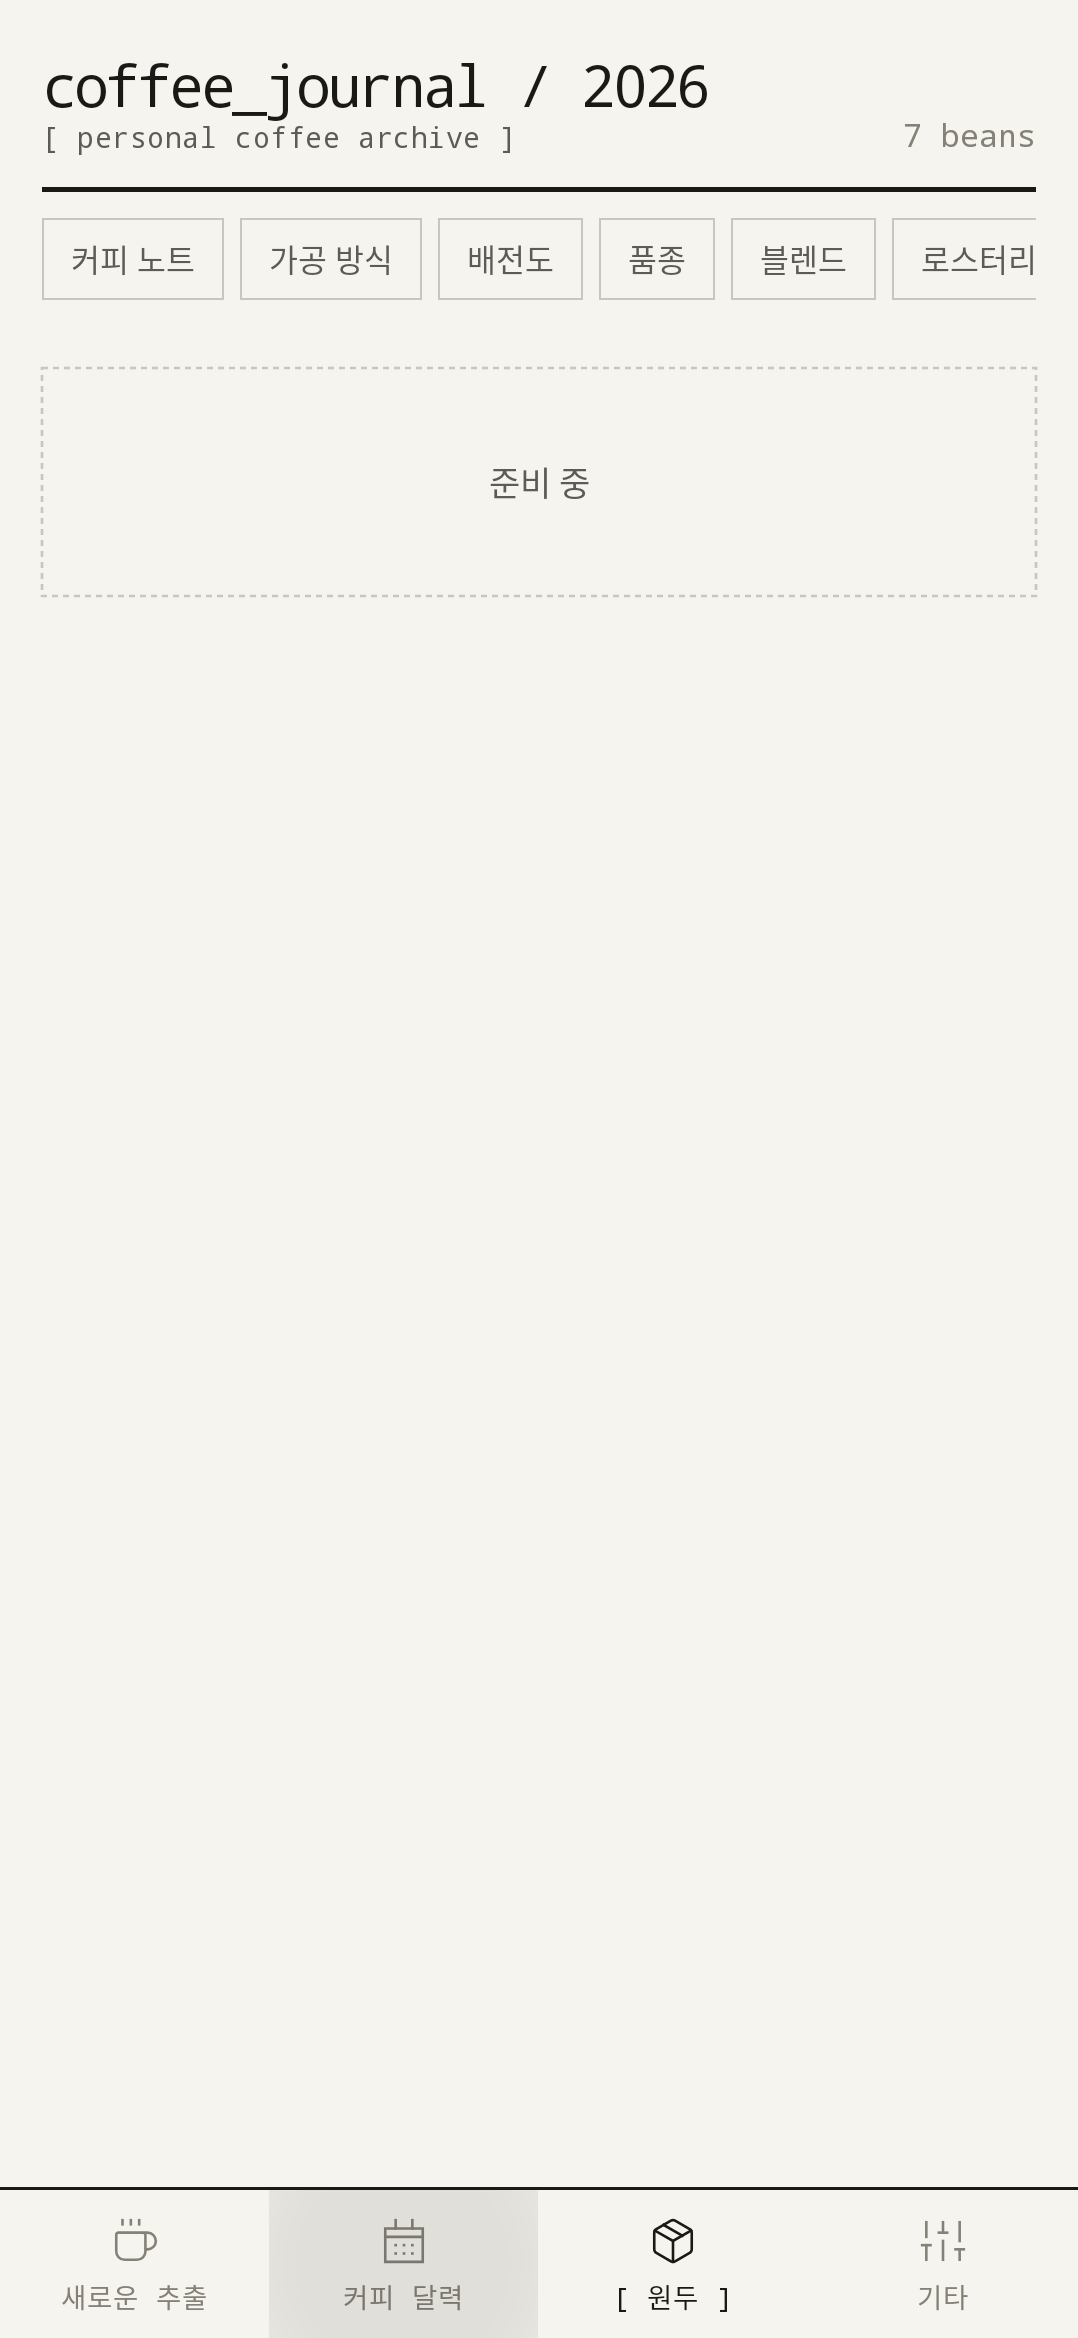
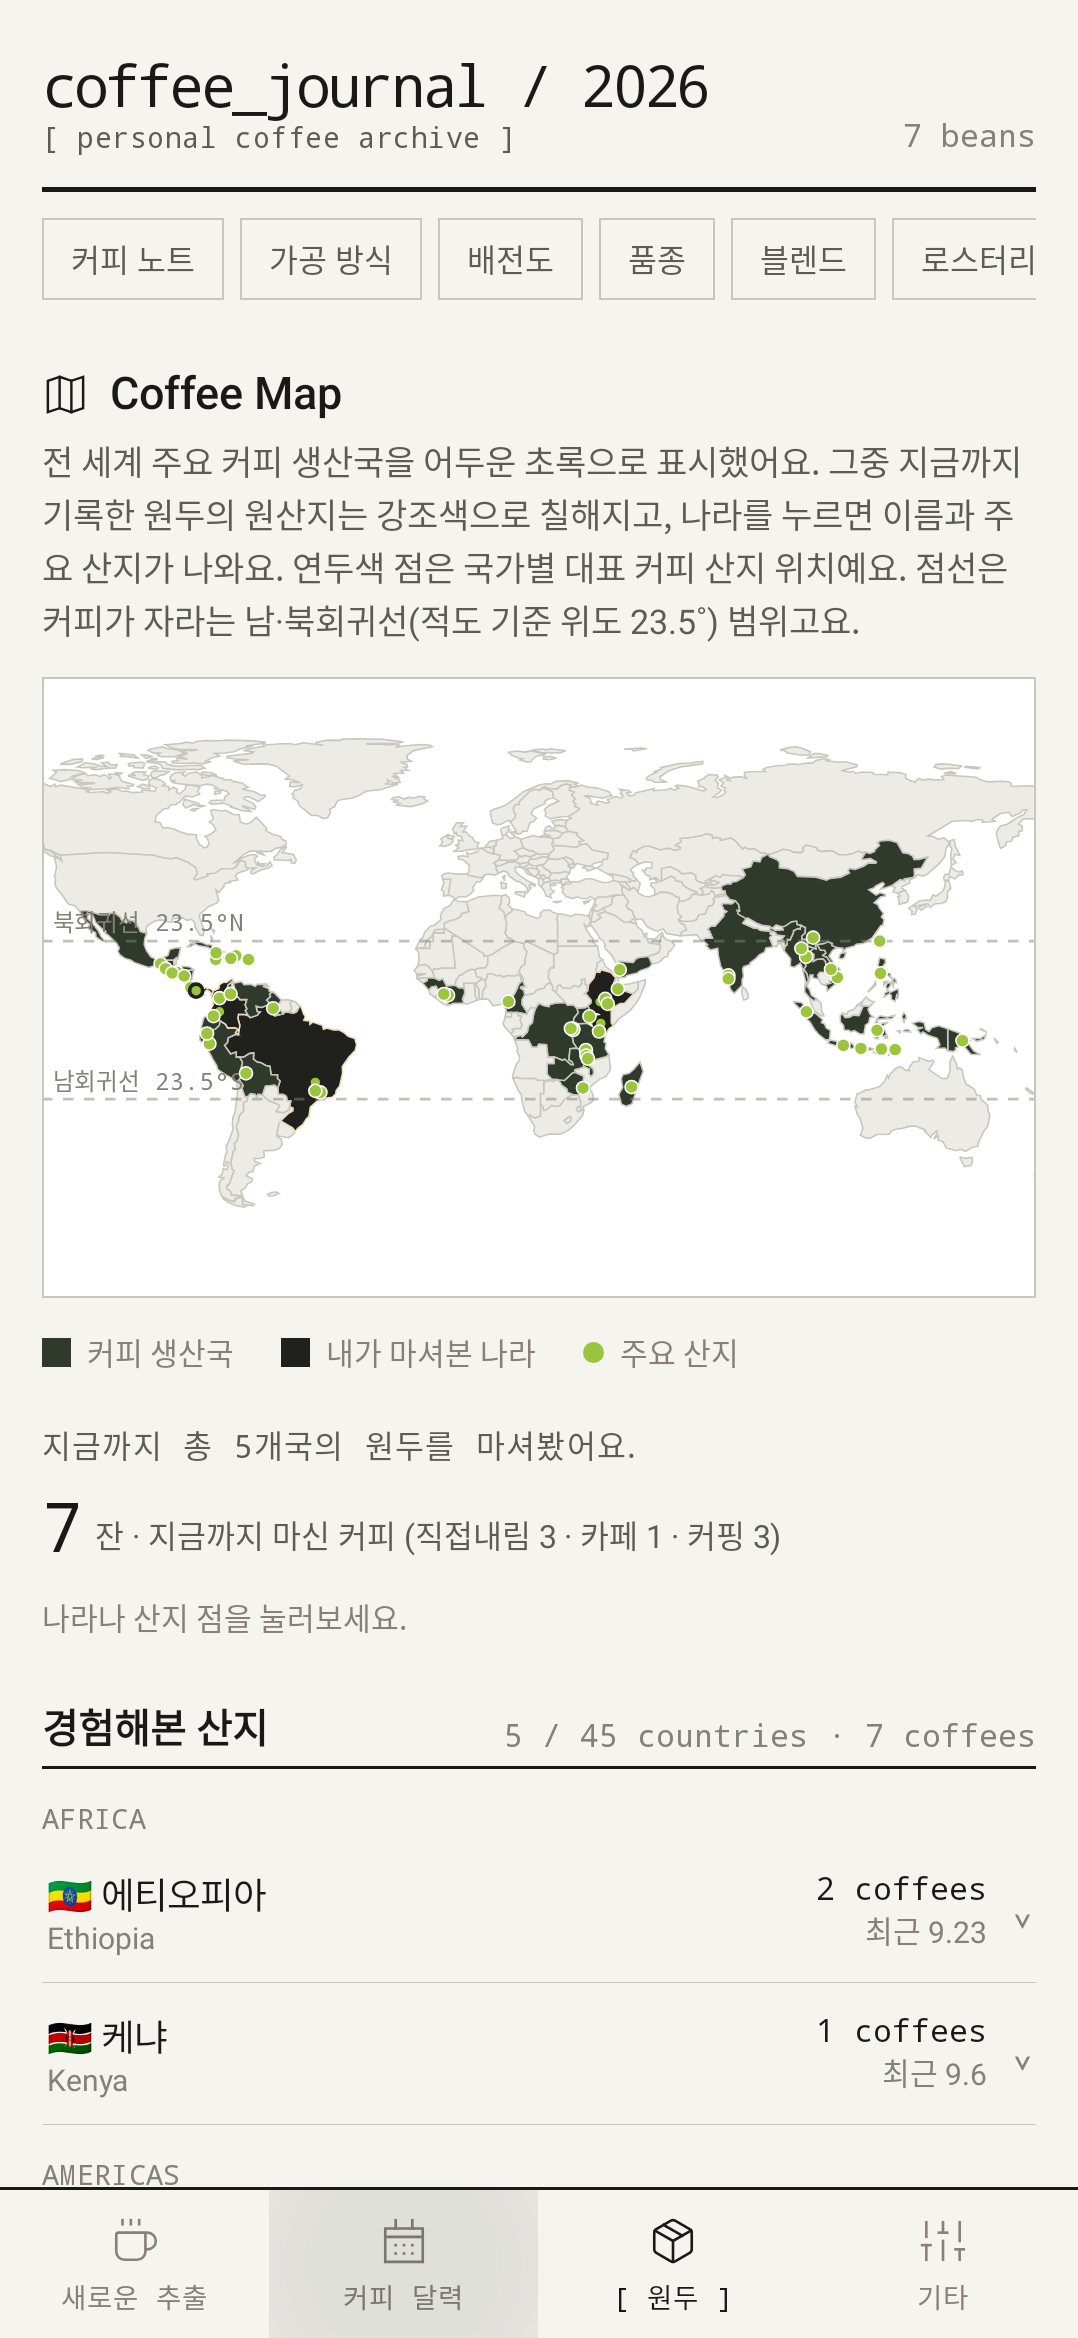
Merge bean tab B (coffee map, roasteries, importers, blends) and add per-route screenshot tests
All six feature branches are now merged: 80 shared unit tests and 29 JVM
screenshot tests pass; every route renders against seeded sample data.

Claude-Session: https://claude.ai/code/session_018QYnCDu2vDaVkATiKmJbxB

diff --git a/androidApp/src/test/kotlin/com/coffeejournal/android/RouteScreenshotTest.kt b/androidApp/src/test/kotlin/com/coffeejournal/android/RouteScreenshotTest.kt
@@ -1,0 +1,78 @@
+package com.coffeejournal.android
+
+import androidx.compose.ui.test.junit4.createComposeRule
+import androidx.compose.ui.test.onNodeWithText
+import androidx.compose.ui.test.onRoot
+import androidx.compose.ui.test.performClick
+import androidx.navigation.compose.NavHost
+import androidx.navigation.compose.rememberNavController
+import androidx.test.core.app.ApplicationProvider
+import androidx.test.ext.junit.runners.AndroidJUnit4
+import com.coffeejournal.ui.nav.FormMode
+import com.coffeejournal.ui.nav.Route
+import com.coffeejournal.ui.nav.appGraph
+import com.coffeejournal.ui.theme.CoffeeJournalTheme
+import com.github.takahirom.roborazzi.captureRoboImage
+import org.junit.Before
+import org.junit.Rule
+import org.junit.Test
+import org.junit.runner.RunWith
+import org.robolectric.annotation.Config
+import org.robolectric.annotation.GraphicsMode
+
+/** Renders individual routes on the JVM against seeded data; doubles as a crash check for every screen. */
+@RunWith(AndroidJUnit4::class)
+@GraphicsMode(GraphicsMode.Mode.NATIVE)
+@Config(application = TestApp::class, sdk = [35], qualifiers = "w411dp-h891dp-420dpi")
+class RouteScreenshotTest {
+    @get:Rule val compose = createComposeRule()
+
+    @Before
+    fun setUp() {
+        startTestKoin(ApplicationProvider.getApplicationContext())
+        SampleData.seed()
+    }
+
+    private fun settle() { repeat(6) { Thread.sleep(250); compose.waitForIdle() } }
+
+    private fun show(route: Route, file: String, after: (() -> Unit)? = null) {
+        compose.setContent {
+            CoffeeJournalTheme {
+                val nav = rememberNavController()
+                NavHost(navController = nav, startDestination = route) { appGraph(nav) }
+            }
+        }
+        settle()
+        after?.invoke()
+        compose.onRoot().captureRoboImage("screenshots/$file")
+    }
+
+    @Test fun recordForm_brew() = show(Route.RecordForm(mode = FormMode.EXTRACT), "10-form-brew.png")
+    @Test fun recordForm_cupping() = show(Route.RecordForm(mode = FormMode.CUPPING), "11-form-cupping.png")
+    @Test fun recordForm_edit() = show(Route.RecordForm(mode = FormMode.EXTRACT, entryId = "e1"), "12-form-edit.png")
+    @Test fun entryDetail_brew() = show(Route.EntryDetail("e1"), "13-detail-brew.png")
+    @Test fun entryDetail_cupping() = show(Route.EntryDetail("e5"), "14-detail-cupping.png")
+    @Test fun pantry() = show(Route.Pantry, "15-pantry.png")
+    @Test fun pantryEditor() = show(Route.PantryEditor("p2"), "16-pantry-editor.png")
+    @Test fun myRecipes() = show(Route.MyRecipes, "17-my-recipes.png")
+    @Test fun backup() = show(Route.Backup, "18-backup.png")
+    @Test fun miscForm() = show(Route.MiscForm(type = "dripper", itemId = "m1"), "19-misc-form.png")
+    @Test fun bookForm() = show(Route.BookForm("b1"), "20-book-form.png")
+    @Test fun classForm() = show(Route.ClassForm(), "21-class-form.png")
+    @Test fun calendar_study() = show(Route.Calendar, "22-calendar-study.png") { compose.onNodeWithText("스터디").performClick(); settle() }
+    @Test fun calendar_cupping() = show(Route.Calendar, "23-calendar-cupping.png") { compose.onNodeWithText("커핑").performClick(); settle() }
+    @Test fun bean_notes() = show(Route.Bean, "30-bean-notes.png") { compose.onNodeWithText("커피 노트").performClick(); settle() }
+    @Test fun bean_process() = show(Route.Bean, "31-bean-process.png") { compose.onNodeWithText("가공 방식").performClick(); settle() }
+    @Test fun bean_roast() = show(Route.Bean, "32-bean-roast.png") { compose.onNodeWithText("배전도").performClick(); settle() }
+    @Test fun bean_variety() = show(Route.Bean, "33-bean-variety.png") { compose.onNodeWithText("품종").performClick(); settle() }
+    @Test fun bean_specialty() = show(Route.Bean, "34-bean-specialty.png") { compose.onNodeWithText("✦ Competition Lots").performClick(); settle() }
+    @Test fun bean_map() = show(Route.Bean, "37-bean-map.png")
+    @Test fun bean_roastery() = show(Route.Bean, "38-bean-roastery.png") { compose.onNodeWithText("로스터리").performClick(); settle() }
+    @Test fun bean_selection() = show(Route.Bean, "39-bean-selection.png") { compose.onNodeWithText("생두 수입사").performClick(); settle() }
+    @Test fun bean_blend() = show(Route.Bean, "40-bean-blend.png") { compose.onNodeWithText("블렌드").performClick(); settle() }
+    @Test fun blendForm() = show(Route.BlendForm("bl1"), "41-blend-form.png")
+    @Test fun flatItemForm() = show(Route.FlatItemForm(type = "source", itemId = "m4"), "42-flat-item-form.png")
+    @Test fun countryDetail() = show(Route.CountryDetail("Ethiopia"), "43-country-detail.png")
+    @Test fun variety_detail() = show(Route.VarietyDetail("gesha"), "35-variety-detail.png")
+    @Test fun process_detail() = show(Route.ProcessDetail("워시드", "워시드"), "36-process-detail.png")
+}
